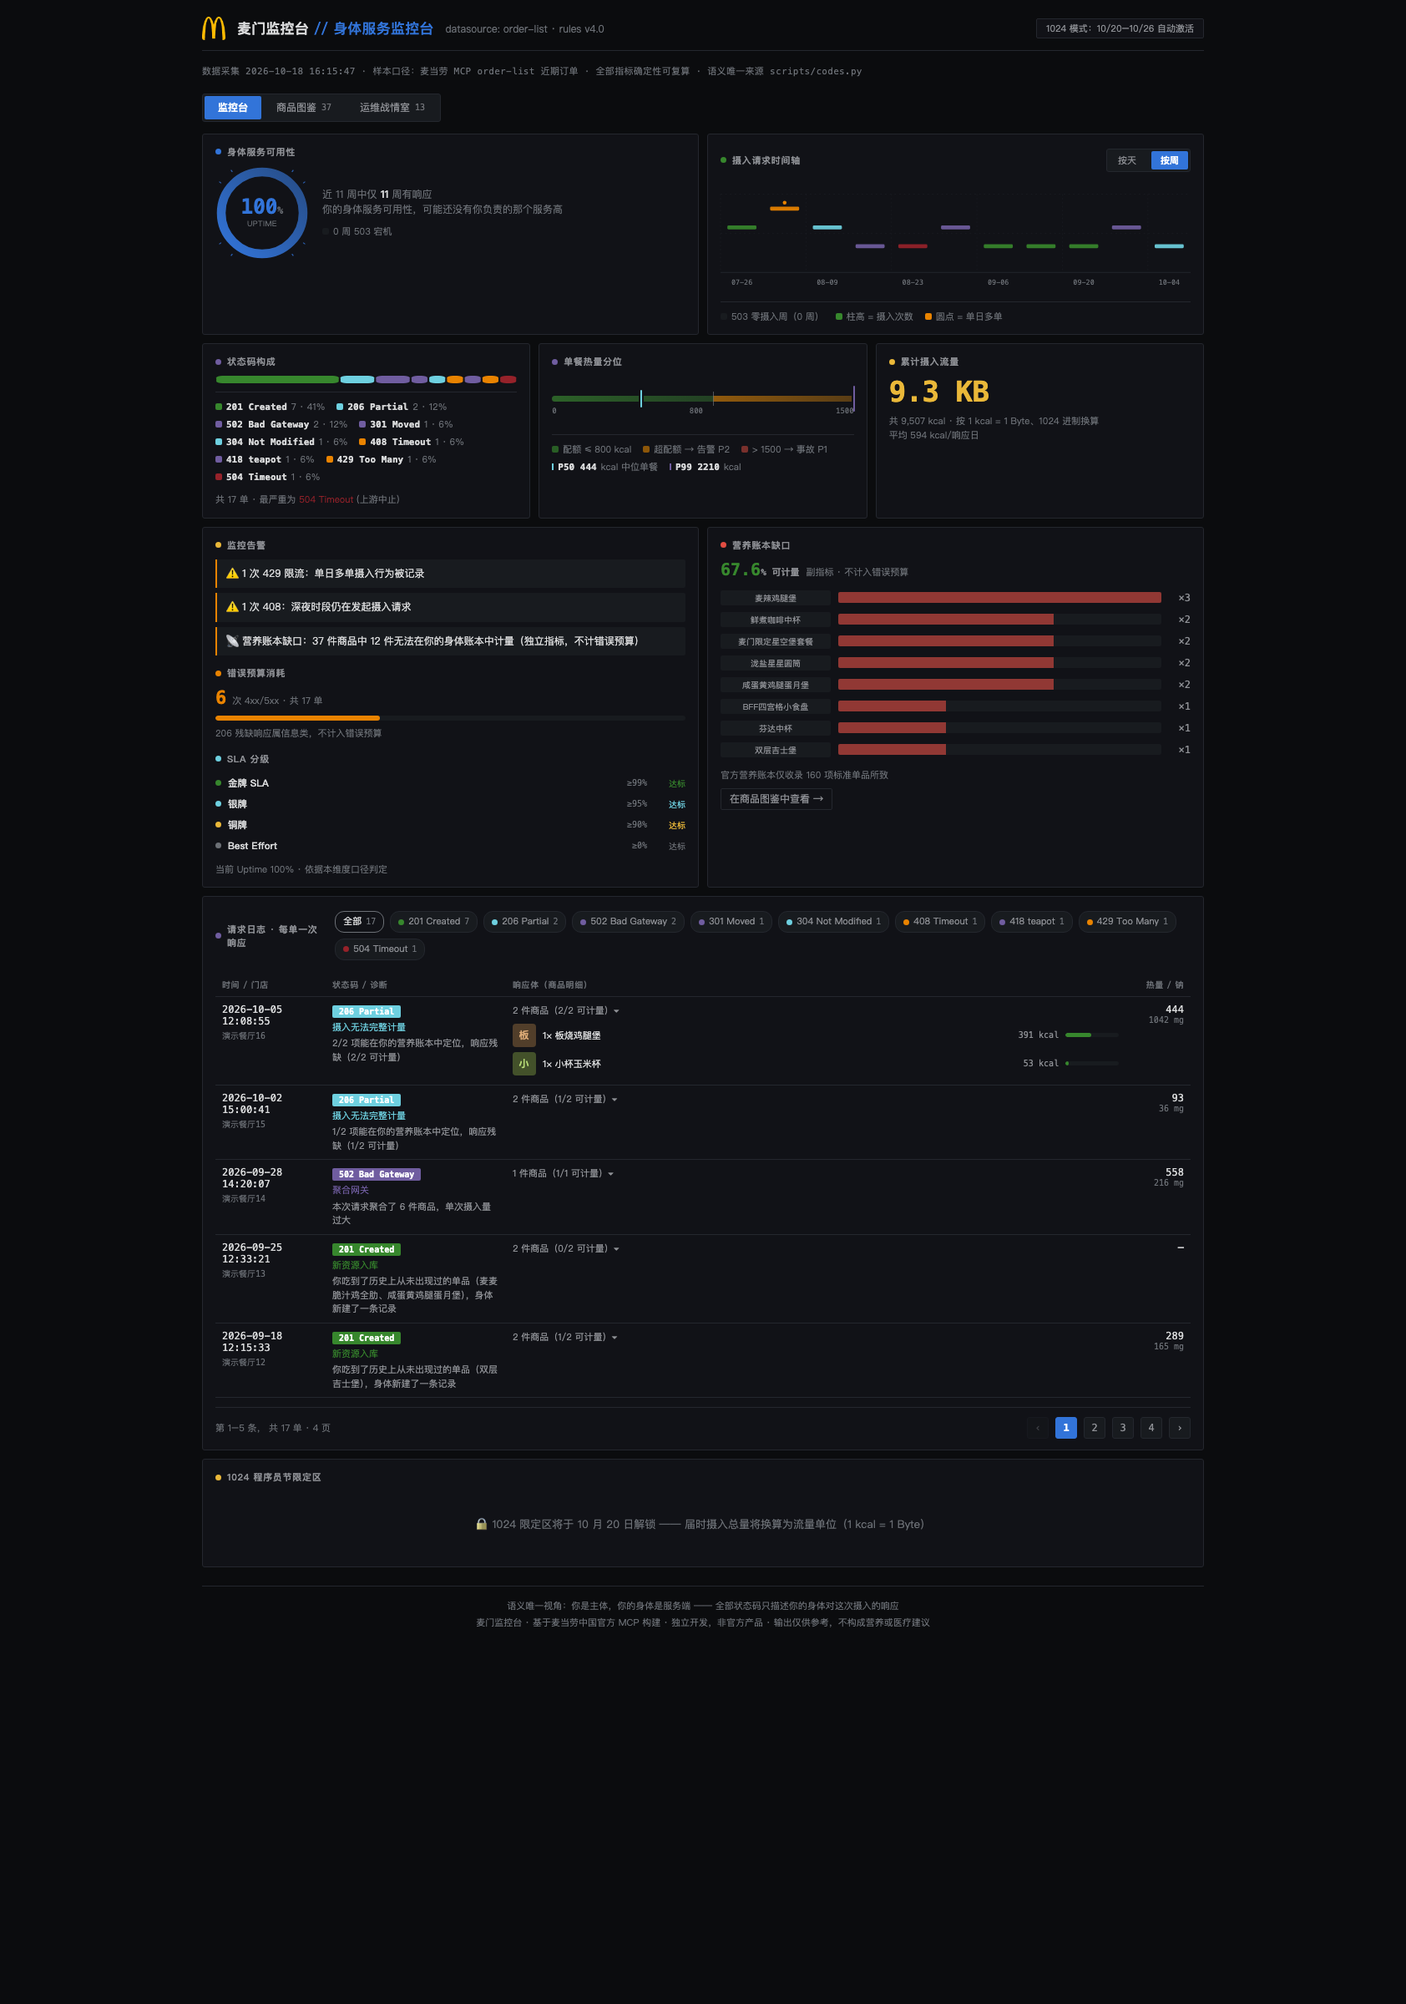
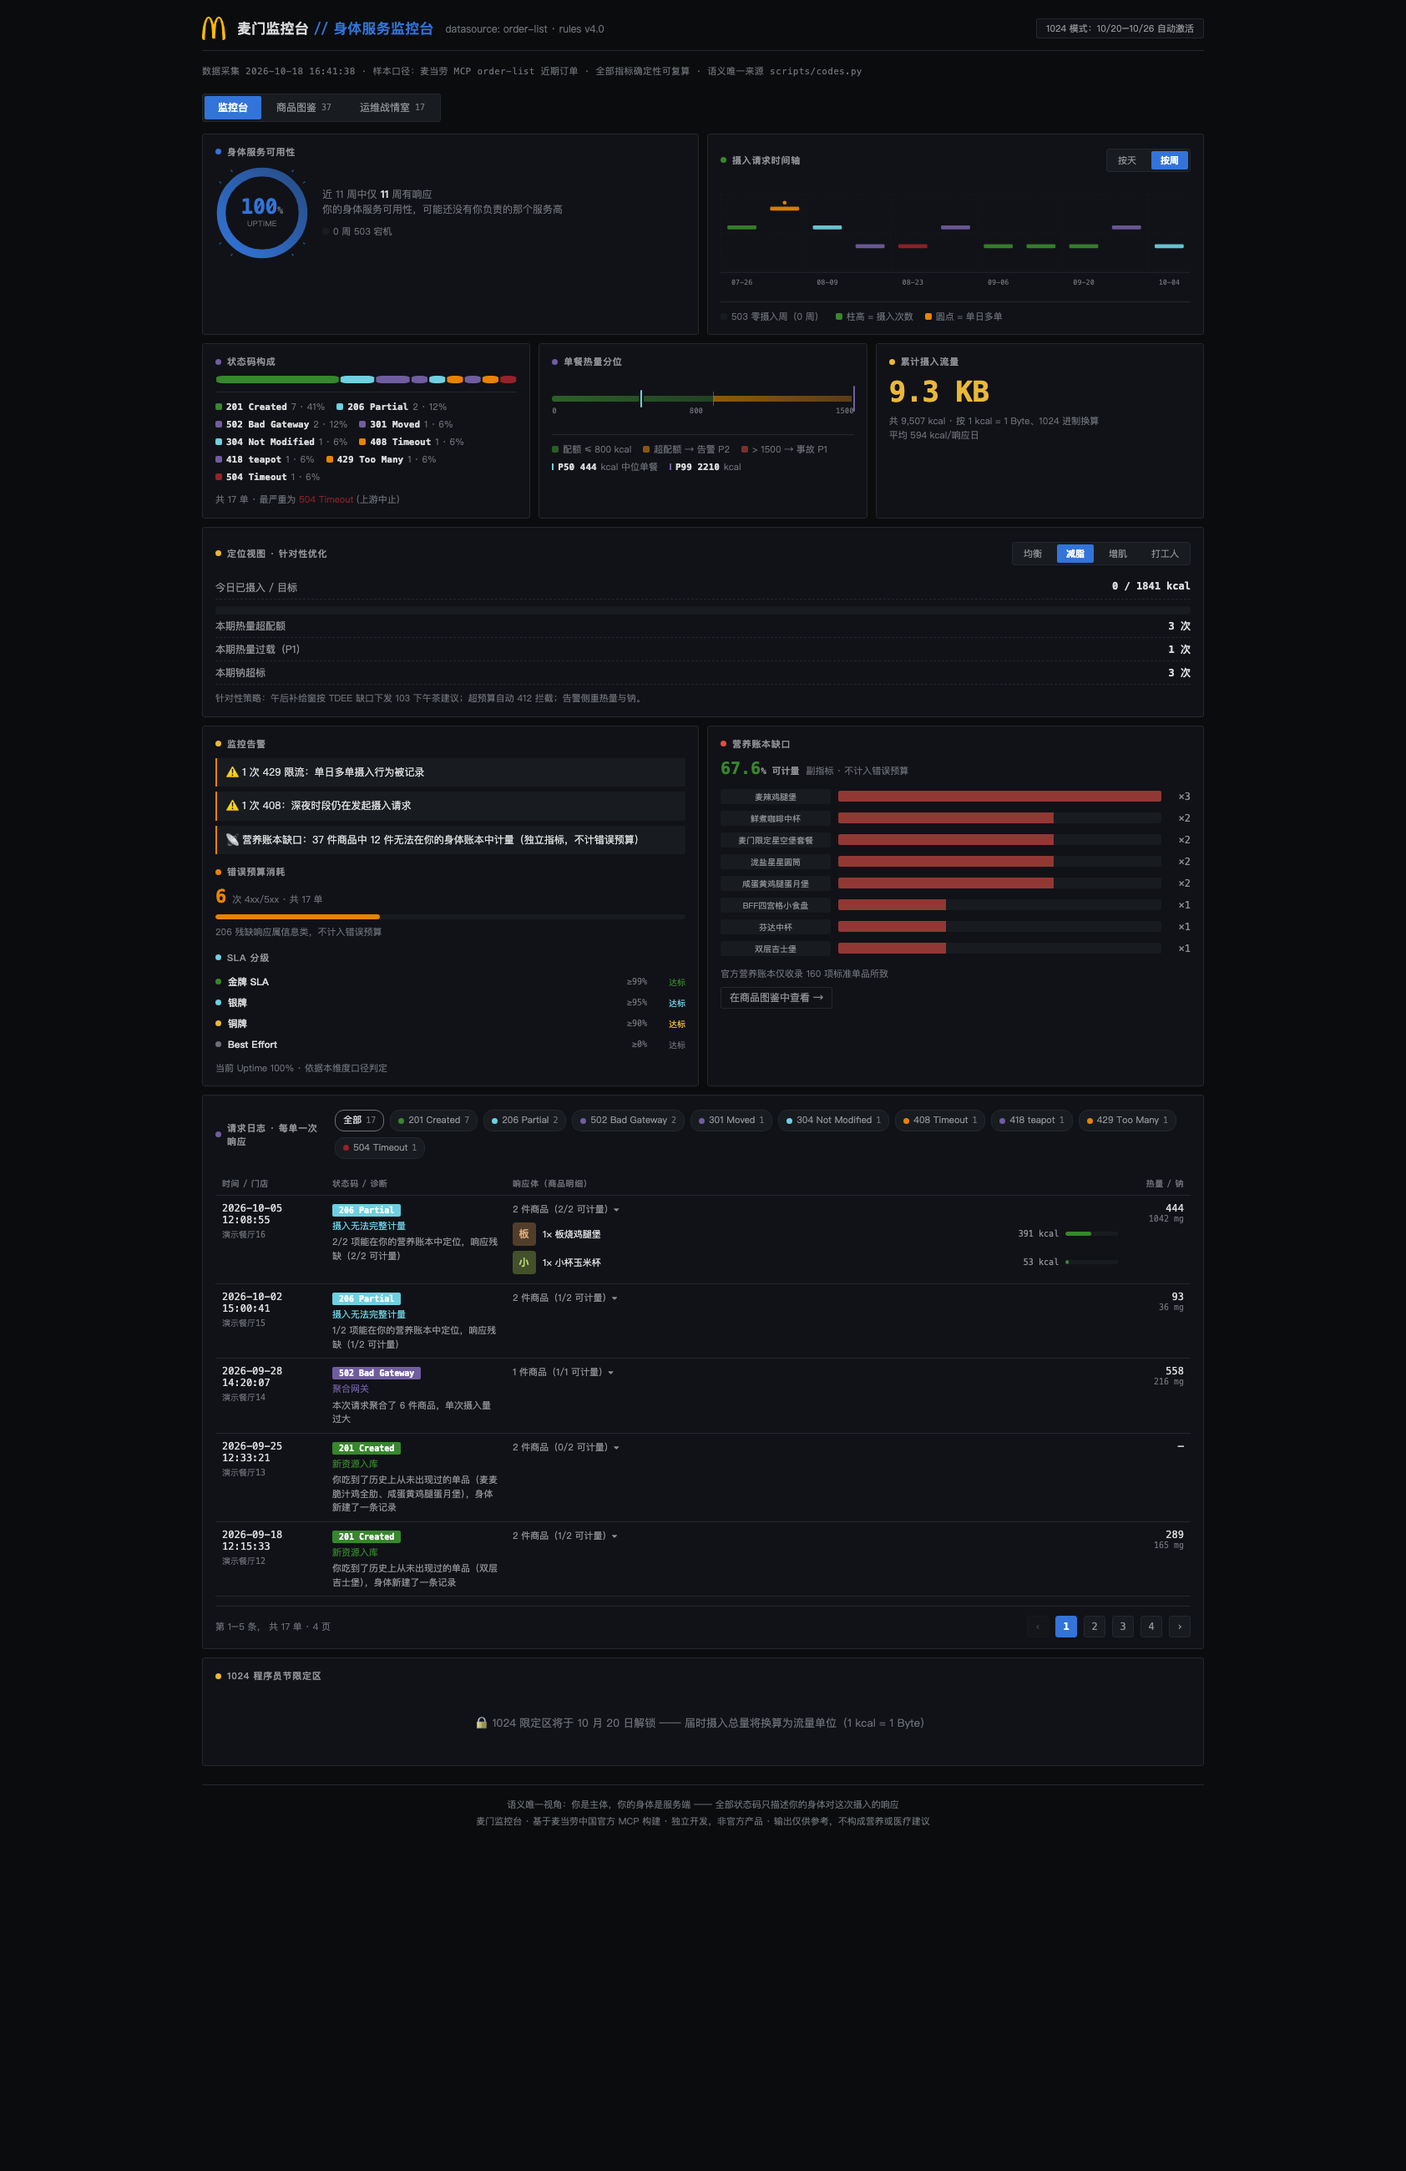
feat: 控制台场景定位选择——定位视图针对性展示
- 监控台新增「定位视图」面板：均衡/减脂/增肌/打工人四档定位一键切换，
  localStorage 本机记忆，未设置时回落探活档案 goal
- 定位专属指标卡：减脂=缺口进度+配额告警计数；增肌=蛋白目标(1.6g/kg)
  +热量盈余+高蛋白 Top3；打工人=咖啡因摄入/599 计数/418 计数
- evolve.py：午后补给窗按定位驱动（减脂=缺口补 103/超预算 412；
  增肌=盈余加餐 103/达标 204）
- SKILL.md 增加第 3.5 步：面板切换存本机，对 Agent 说「切换定位」
  同步探活档案

diff --git a/scripts/report.py b/scripts/report.py
@@ -160,6 +160,8 @@ TEMPLATE = """<!DOCTYPE html>
   /* 两级页面导航 */
   .tabs{{display:inline-flex;gap:2px;padding:2px;background:var(--panel2);
     border:1px solid var(--border);border-radius:3px;margin-bottom:14px}}
+  .pos-row{{display:flex;align-items:center;gap:10px;flex-wrap:wrap;margin-bottom:10px}}
+  .pos-hint{{font-size:11px;color:var(--dim)}}
   .tab-btn{{appearance:none;border:0;background:transparent;color:var(--muted);
     font-size:12px;font-family:inherit;padding:5px 16px;border-radius:2px;
     cursor:pointer;transition:all .15s ease;line-height:1.5;display:flex;
@@ -288,6 +290,54 @@ TEMPLATE = """<!DOCTYPE html>
 <script>
 const DATA = __DATA__;
 const OPS = __OPS__;
+const TOPPROTEIN = __TOPPROTEIN__;
+let POS = (() => {{
+  try {{ const v = localStorage.getItem('mcd.pos'); if (v) return v; }} catch (e) {{}}
+  return (OPS.metabolic && OPS.metabolic.goal && OPS.metabolic.goal !== 'keep')
+    ? OPS.metabolic.goal : 'keep';
+}})();
+
+function posBody() {{
+    const today = (DATA.orders || []).filter(o => o.date === new Date().toISOString().slice(0, 10));
+    const intake = today.reduce((a, o) => a + (o.kcal || 0), 0);
+    const protein = today.reduce((a, o) => a + (o.protein || 0), 0);
+    const mt = OPS.metabolic || {{}};
+    const breachesAll = (DATA.orders || []).flatMap(o => o.breaches || []);
+    const cnt = k => breachesAll.filter(b => b === k).length;
+    const cafToday = today.filter(o => o.items.some(i => ['咖啡', '拿铁', '美式', '摩卡'].some(k => i.name.includes(k)))).length;
+    const t599 = (OPS.probes || []).filter(p => p.code === '599').length;
+    const t418 = (DATA.orders || []).filter(o => o.httpStatus === '418').length;
+    const row = (k, v) => `<div class="meta-row"><span class="k">${{k}}</span><span class="v">${{v}}</span></div>`;
+
+    if (POS === 'cut') {{
+      const gap = mt.profileSet ? mt.target - intake : null;
+      return `<div class="meta-row"><span class="k">今日已摄入 / 目标</span><span class="v">${{intake}} / ${{mt.profileSet ? mt.target : '—'}} kcal</span></div>
+        <div class="gapbar"><div style="width:${{mt.profileSet ? Math.min(100, Math.round(intake / mt.target * 100)) : 0}}%;background:var(--blue)"></div></div>
+        ${{row('本期热量超配额', cnt('calorie_over') + ' 次')}}
+        ${{row('本期热量过载（P1）', cnt('calorie_overload') + ' 次')}}
+        ${{row('本期钠超标', cnt('sodium_over') + ' 次')}}
+        <div class="stat-note" style="margin-top:8px">针对性策略：午后补给窗按 TDEE 缺口下发 103 下午茶建议；超预算自动 412 拦截；告警侧重热量与钠。</div>`;
+    }}
+    if (POS === 'worker') {{
+      return `<div class="meta-row"><span class="k">今日咖啡因摄入</span><span class="v">${{cafToday}} 单</span></div>
+        ${{row('咖啡窗超时（599）', t599 + ' 次')}}
+        ${{row('纯饮料单（418）', t418 + ' 次')}}
+        <div class="stat-note" style="margin-top:8px">针对性策略：晨间 09:30–11:00 / 午后 13:30–15:30 两个咖啡窗，该喝没喝判 599；纯饮料单判 418 茶壶协议。</div>`;
+    }}
+    if (POS === 'bulk') {{
+      const w = (OPS.prefsLoaded || {{}}).profile && OPS.prefsLoaded.profile.weight;
+      const proteinTarget = w ? Math.round(w * 1.6) : null;
+      return `<div class="meta-row"><span class="k">今日蛋白质</span><span class="v">${{protein}} g${{proteinTarget ? ' / 目标 ' + proteinTarget + ' g（1.6g/kg）' : ''}}</span></div>
+        ${{row('热量盈余空间', mt.profileSet ? (mt.target - intake) + ' kcal' : '—')}}
+        <div class="panel-h" style="margin-top:11px"><span class="dot" style="background:var(--green)"></span><h3>高蛋白补给 Top3（营养表）</h3></div>
+        ${{TOPPROTEIN.map(x => row(`${{x.name}}（${{x.kcal}} kcal）`, `${{x.protein}} g 蛋白`)).join('')}}
+        <div class="stat-note" style="margin-top:8px">针对性策略：午后补给窗按盈余缺口下发 103 加餐建议，蛋白目标按 1.6g/kg 估算。</div>`;
+    }}
+    return `<div class="meta-row"><span class="k">Uptime</span><span class="v">${{(DATA.summary || {{}}).uptime ?? '—'}}%</span></div>
+      ${{row('累计摄入流量', (DATA.summary || {{}}).flowUnit || '—')}}
+      <div class="stat-note" style="margin-top:8px">均衡视角：切到「减脂 / 增肌 / 打工人」定位，面板与探活策略会针对性调整（本机记忆，配合对 Agent 说「切换到减脂定位」可同步探活档案）。</div>`;
+}}
+
 const FORCE_1024 = __FORCE_1024__;
 const CODES = __CODES__;
 const KCAL_OK = __KCAL_OK__;
@@ -1100,6 +1150,18 @@ function render(dim, logFilter, logPage) {{
     pagenav('overview') +
     `<div class="grid4">${{hero}}</div>
     <div class="grid">${{second}}</div>
+    <div class="panel" style="margin-bottom:10px">
+      <div class="panel-h row">
+        <div><span class="dot" style="background:var(--yellow)"></span><h3>定位视图 · 针对性优化</h3></div>
+        <div class="seg" role="radiogroup" aria-label="场景定位">
+          ${{[['keep', '均衡'], ['cut', '减脂'], ['bulk', '增肌'], ['worker', '打工人']]
+            .map(([v, t]) => `<button class="seg-btn${{POS === v ? ' on' : ''}}"
+              role="radio" aria-checked="${{POS === v}}" data-pos="${{v}}"
+              type="button">${{t}}</button>`).join('')}}
+        </div>
+      </div>
+      <div id="posBody">${{posBody()}}</div>
+    </div>
     <div class="grid4" style="margin-bottom:10px">
       <div class="panel">
         <div class="panel-h"><span class="dot" style="background:var(--yellow)"></span><h3>监控告警</h3></div>
@@ -1177,6 +1239,10 @@ function render(dim, logFilter, logPage) {{
 if (s.collectionStatus === '404') {{
   render404();
 }} else {{
+  // 五类交互状态：页面层级 / 统计维度 / 日志筛选 / 日志页码 / 场景定位
+  // 定位优先取本机记忆（localStorage），未设置时回落到 prefs.profile.goal
+
+
   // 四类交互状态彼此独立：页面层级 / 统计维度 / 日志筛选 / 日志页码
   // 全部支持 URL 深链：#gallery 图鉴页，#day / #week 监控台维度
   const HASH = (location.hash || '').replace('#', '');
@@ -1210,6 +1276,18 @@ if (s.collectionStatus === '404') {{
         history.replaceState(null, '', pg === 'gallery' ? '#gallery' : '#' + CURRENT);
         draw();
         window.scrollTo(0, 0);
+      }}
+      return;
+    }}
+    // 场景定位（本机记忆；探活档案同步由 Agent 写 prefs 完成）
+    const posBtn = e.target.closest('[data-pos]');
+    if (posBtn) {{
+      const v = posBtn.getAttribute('data-pos');
+      if (v !== POS) {{
+        POS = v;
+        localStorage.setItem('mcd.pos', v);
+        const body = document.getElementById('posBody');
+        if (body) body.innerHTML = posBody();
       }}
       return;
     }}
@@ -1287,6 +1365,14 @@ def main():
     # 若顺序颠倒，注入的 JSON 中嵌套对象天然的 }} 会被误还原，导致数据损坏。
     tpl = re.sub(r"\{\{|\}\}", lambda m: m.group(0)[0], TEMPLATE)
 
+    try:
+        nutr = json.loads((base / "data" / "nutrition_foods.json").read_text(encoding="utf-8"))
+        top_protein = sorted(
+            ({"name": r["productName"], "protein": float(r["protein"] or 0),
+              "kcal": int(r["energyKcal"] or 0)} for r in nutr),
+            key=lambda x: -x["protein"])[:3]
+    except Exception:
+        top_protein = []
     ops_path = base / "data" / "ops.json"
     ops = json.loads(ops_path.read_text(encoding="utf-8")) if ops_path.exists() else {
         "loopCount": 0, "level": {"score": 0, "level": "实习 on-call",
@@ -1298,6 +1384,7 @@ def main():
     html = (tpl
             .replace("__DATA__", json.dumps(data, ensure_ascii=False))
             .replace("__OPS__", json.dumps(ops, ensure_ascii=False))
+            .replace("__TOPPROTEIN__", json.dumps(top_protein, ensure_ascii=False))
             .replace("__CODES__", json.dumps(codes_view, ensure_ascii=False))
             .replace("__KCAL_OK__", str(KCAL_OK))
             .replace("__KCAL_OVERLOAD__", str(KCAL_OVERLOAD))

diff --git a/scripts/evolve.py b/scripts/evolve.py
@@ -252,21 +252,37 @@ def probe_loop(orders, meta, prefs, ops_prev, nutrition):
                 probes.append(_probe(sig, key, "599", now, "caffeine",
                                      "午后咖啡窗关闭仍未摄入咖啡因——下午的 CPU 降频已记录在案"))
 
-        elif key == "afternoon_snack" and meta.get("profileSet") and meta.get("goal") == "cut":
+        elif key == "afternoon_snack" and meta.get("profileSet") and meta.get("goal") in ("cut", "bulk"):
             gap = meta["target"] - intake_today
-            if gap < 0:
-                probes.append(_probe(sig, key, "412", now, "metabolic",
-                                     f"今日已超减脂预算 {-gap} kcal，下午茶建议被你的目标否决——"
-                                     f"这不是失败，是 412 在保护你"))
-            elif gap >= 250:
-                snack = pick_snack(nutrition, min(gap, meta["windows"]["snack"] * 2))
-                payload = (f"缺口 {gap} kcal：建议 {snack[0]}（{snack[1]} kcal / 蛋白 {snack[2]}g）"
-                           if snack else f"缺口 {gap} kcal：可补给轻量蛋白类加餐")
-                probes.append(_probe(sig, key, "103", now, "metabolic",
-                                     f"减脂场景午后补给窗：{payload}，维持下午体力"))
+            if meta["goal"] == "bulk":
+                # 增肌：gap = 距盈余目标还差多少；不足则 103 盈余加餐，足够则 204
+                if gap <= 0:
+                    probes.append(_probe(sig, key, "204", now, "metabolic",
+                                         f"今日盈余目标已达成（+{-gap} kcal），增肌窗口主动静默"))
+                elif gap >= 250:
+                    snack = pick_snack(nutrition, gap)
+                    payload = (f"距盈余目标还差 {gap} kcal：建议 {snack[0]}"
+                               f"（{snack[1]} kcal / 蛋白 {snack[2]}g）" if snack
+                               else f"距盈余目标还差 {gap} kcal：建议蛋白加餐")
+                    probes.append(_probe(sig, key, "103", now, "metabolic",
+                                         f"增肌场景午后补给窗：{payload}"))
+                else:
+                    probes.append(_probe(sig, key, "204", now, "metabolic",
+                                         f"距盈余目标仅差 {gap} kcal，正餐即可覆盖，主动静默"))
             else:
-                probes.append(_probe(sig, key, "204", now, "metabolic",
-                                     f"今日摄入与预算吻合（缺口仅 {gap} kcal），本窗口无需补给，主动静默"))
+                if gap < 0:
+                    probes.append(_probe(sig, key, "412", now, "metabolic",
+                                         f"今日已超减脂预算 {-gap} kcal，下午茶建议被你的目标否决——"
+                                         f"这不是失败，是 412 在保护你"))
+                elif gap >= 250:
+                    snack = pick_snack(nutrition, min(gap, meta["windows"]["snack"] * 2))
+                    payload = (f"缺口 {gap} kcal：建议 {snack[0]}（{snack[1]} kcal / 蛋白 {snack[2]}g）"
+                               if snack else f"缺口 {gap} kcal：可补给轻量蛋白类加餐")
+                    probes.append(_probe(sig, key, "103", now, "metabolic",
+                                         f"减脂场景午后补给窗：{payload}，维持下午体力"))
+                else:
+                    probes.append(_probe(sig, key, "204", now, "metabolic",
+                                         f"今日摄入与预算吻合（缺口仅 {gap} kcal），本窗口无需补给，主动静默"))
 
     # 522：最近连续 2 条探活超时 → 升级失联告警
     tail = [p for p in probes if p["status"] in ("timed_out", "open")][-2:]

diff --git a/scripts/classify.py b/scripts/classify.py
@@ -97,11 +97,13 @@ def classify_order(orders_raw: list, nutrition_index: dict) -> list:
                 "matched": row is not None,
                 "kcal": int(row["energyKcal"]) * qty if row else None,
                 "sodium": int(row["sodium"]) * qty if row else None,
+                "protein": round(float(row["protein"]) * qty) if row else None,
             })
 
         matched = [i for i in items if i["matched"]]
         kcal = sum(i["kcal"] for i in matched) if matched else None
         sodium = sum(i["sodium"] for i in matched) if matched else None
+        protein = sum(i["protein"] for i in matched if i["protein"] is not None) if matched else None
         total_qty = sum(i["qty"] for i in items)
         signature = ",".join(sorted(f"{normalize(i['name'])}x{i['qty']}" for i in items))
         date_key = dt.strftime("%Y-%m-%d")
@@ -164,6 +166,7 @@ def classify_order(orders_raw: list, nutrition_index: dict) -> list:
             "items": items,
             "kcal": kcal,
             "sodium": sodium,
+            "protein": protein,
             "matchCoverage": f"{len(matched)}/{len(items)}" if items else "0/0",
             "breaches": breaches,
             "httpStatus": status,

diff --git a/SKILL.md b/SKILL.md
@@ -59,6 +59,14 @@ python3 scripts/report.py      # 单文件 dashboard.html
 
 用户口述体重/身高/年龄/性别/活动量/场景（减脂 cut、增肌 bulk、保持 keep、打工人醒脑 worker）→ 写入 `data/prefs.json` 的 `profile` 区。**该文件已被 .gitignore，敏感数据绝不入库**。声明偏好（忌口/目标上限）写 goals/tastes 区；`learned` 区由 evolve.py 自动维护，勿手改。
 
+### 第 3.5 步：场景定位（控制台针对性展示）
+
+面板顶部「定位视图」支持四种定位：均衡 / 减脂 / 增肌 / 打工人——每种定位有专属指标卡
+（减脂=缺口与配额执行、增肌=蛋白目标与热量盈余、打工人=咖啡窗状态与 599 计数）。
+- 用户在面板上切换：存 localStorage（本机），立即生效
+- 用户对 Agent 说「切换到减脂定位」→ Agent 写 `data/prefs.json` 的 `profile.goal`，
+  下次 evolve.py 起探活窗口按定位调整（减脂/增肌启用午后补给窗，打工人侧重咖啡窗）
+
 ### 第 4 步：探活闭环维护
 
 - 窗口规则与探活码触发条件见 [references/state-codes.md](references/state-codes.md) 探活窗口一节

diff --git a/README.md b/README.md
@@ -44,6 +44,8 @@
 
 ![运维战情室](docs/screenshot-ops.png)
 
+**场景定位选择**：监控台「定位视图」面板支持均衡 / 减脂 / 增肌 / 打工人四种定位一键切换（localStorage 本机记忆），每种定位有专属指标卡与针对性策略；定位同时驱动探活窗口行为——减脂/增肌启用午后补给窗（103 补给 / 412 拦截 / 204 静默），打工人侧重晨间与午后咖啡窗（599 超时判定）。对 Agent 说「切换到 XX 定位」即可同步探活档案。
+
 ## Agent 自进化循环
 
 每次运行 `python3 scripts/evolve.py` 就是一次「交接班」：事故复盘、口味画像、职级、洞察全部由**确定性规则**重新计算（数值不进 LLM、逐条可复算），学习结果沉淀进 `data/prefs.json`——越用越懂你。Agent（WorkBuddy / Claude 等）负责编排循环、播报变化、把你口述的偏好（忌口 / 目标 / 预算）写进档案。
